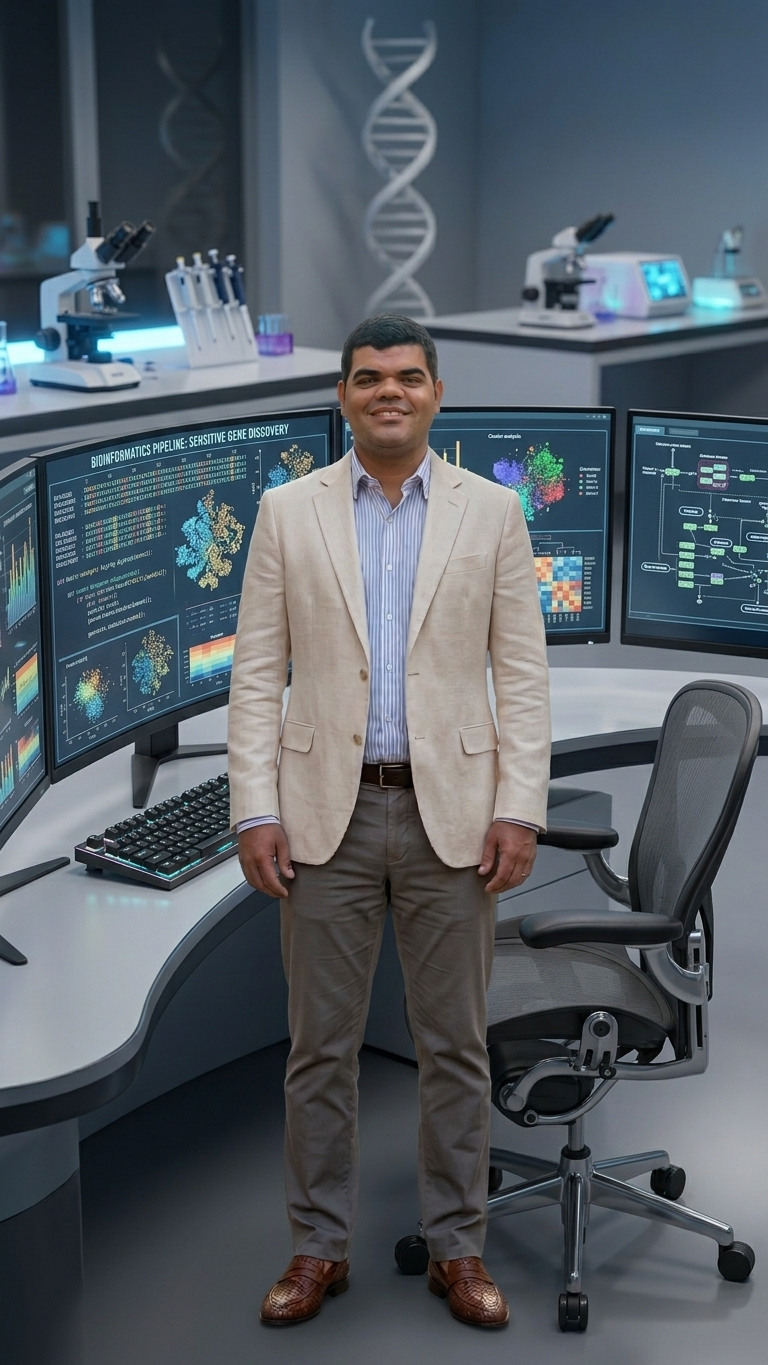
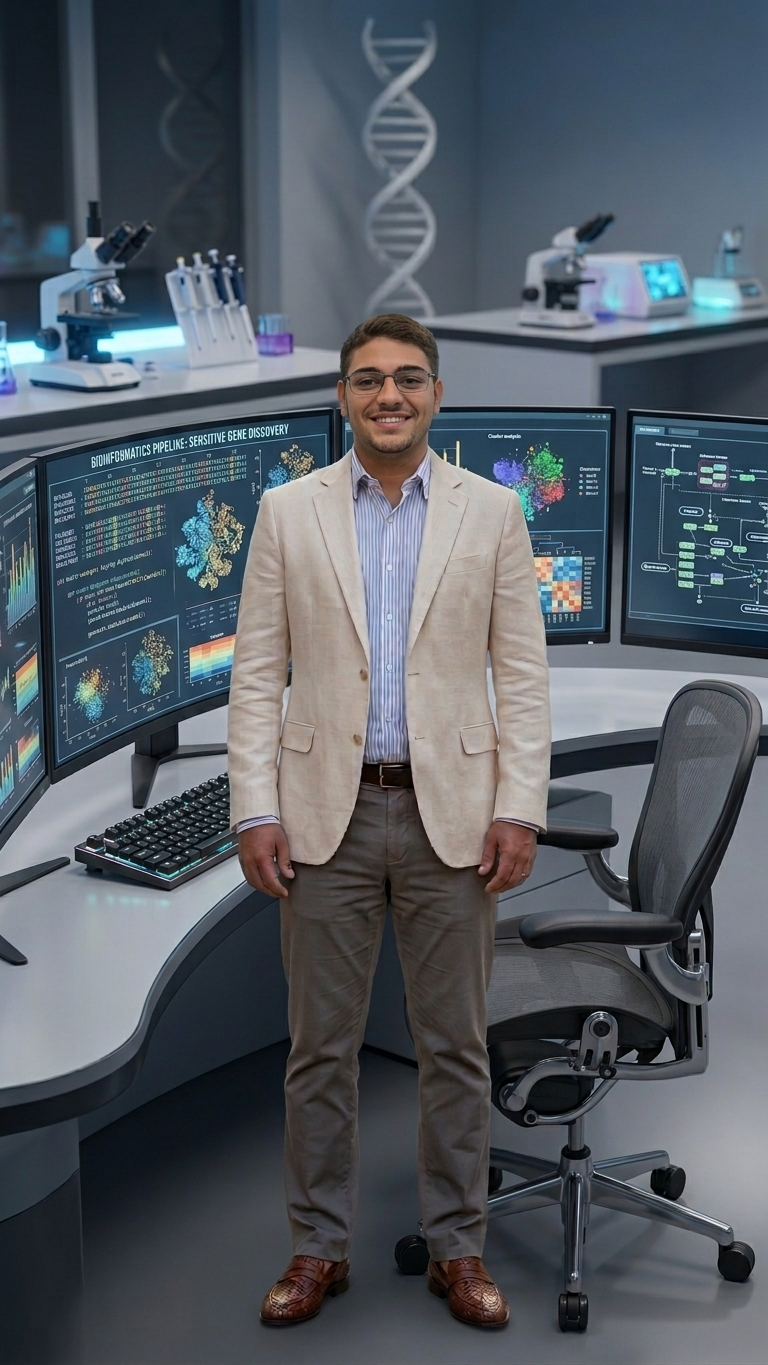
update photo

diff --git a/src/assets/styles/Main.scss b/src/assets/styles/Main.scss
@@ -136,14 +136,15 @@
     flex-shrink: 0;
 
     img {
-        width: 220px;
-        height: 220px;
+        width: 280px;
+        height: 420px;
         object-fit: cover;
-        object-position: center 12%;
-        border-radius: 50%;
-        border: 2px solid rgba(42, 168, 160, 0.45);
+        object-position: center 8%;
+        border-radius: 22px;
+        border: 1px solid rgba(42, 168, 160, 0.35);
         box-shadow: 0 16px 40px rgba(0, 0, 0, 0.28);
         display: block;
+        background: #12263a;
     }
 }
 
@@ -190,8 +191,8 @@
         }
 
         .about-section .image-wrapper img {
-            width: 160px;
-            height: 160px;
+            width: 200px;
+            height: 280px;
         }
     }
 }

diff --git a/src/components/Main.tsx b/src/components/Main.tsx
@@ -11,7 +11,7 @@ function Main() {
     <div className="container">
       <div className="about-section">
         <div className="image-wrapper">
-          <img src={`${process.env.PUBLIC_URL}/Douglas.jpg`} alt="Douglas Guilherme" />
+          <img src={`${process.env.PUBLIC_URL}/Douglas.jpg?v=2`} alt="Douglas Guilherme" />
         </div>
         <div className="content">
           <div className="social_icons">
